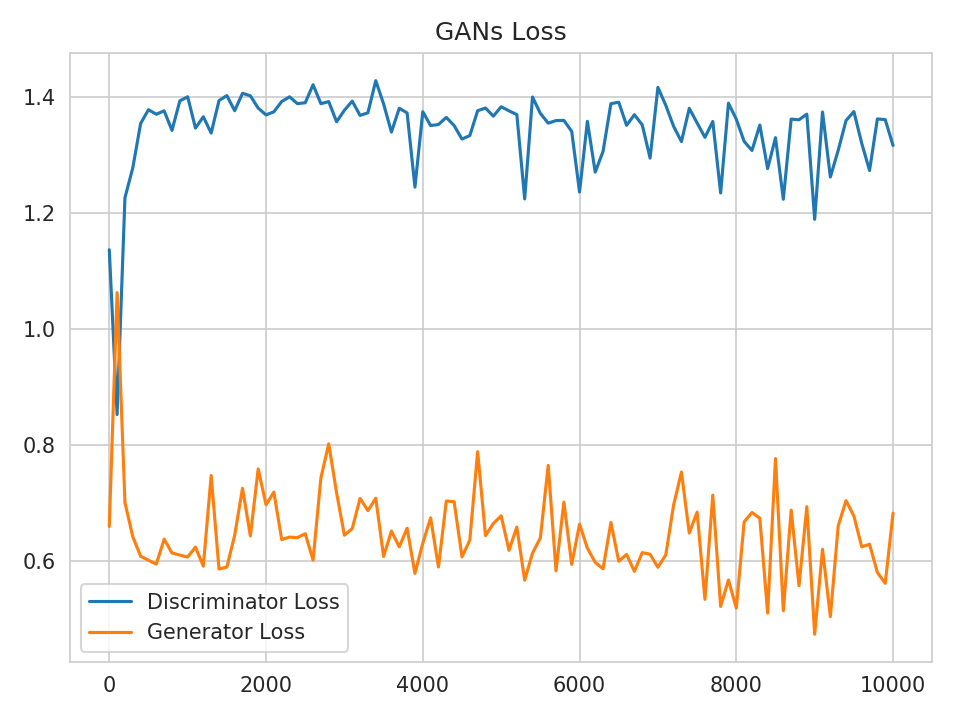
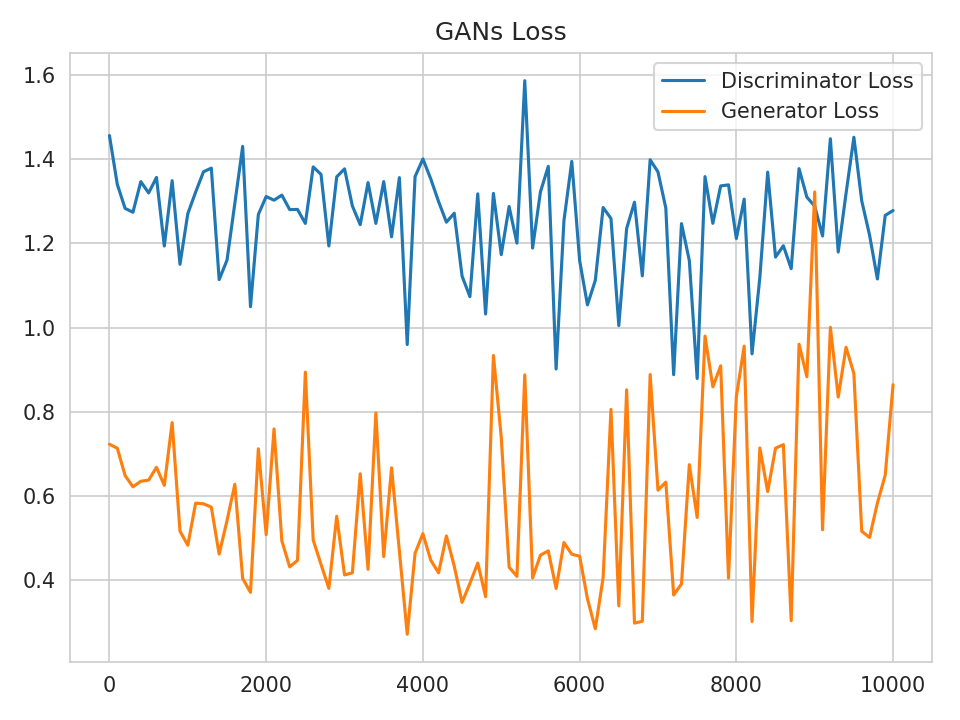
Rewrite a few things

diff --git a/PDFs_Replicas/GANs_Gluon.py b/PDFs_Replicas/GANs_Gluon.py
@@ -1,9 +1,13 @@
 # Import the Libraries
 import lhapdf
+import math
 import tensorflow as tf
 import numpy as np
 import seaborn as sb
+from random import sample
 import matplotlib.pyplot as plt
+from matplotlib.font_manager import FontProperties
+from matplotlib.lines import Line2D
 sb.set_style("whitegrid")
 
 # Get the PDF4LHC15 for test purpose and print some description
@@ -13,16 +17,22 @@ print(pdf.description)
 pdf_central = pdf.mkPDF(0)
 
 # Define the scale 
-Q_pdf = 125
+Q_pdf = 1.5
+
+# Define a log uniform function
+def loguniform(low=0, high=1, size=None):
+    return np.exp(np.random.uniform(low, high, size))
 
 # Define a function which does the sampling
 def sample_pdf(n=1000):
     data  = []
     x_pdf = []
-    for i in np.logspace(-3,-1,n/2):
-        x_pdf.append(i)
-    for i in np.linspace(0.1,1,n/2):
-        x_pdf.append(i)
+    m = math.floor(n/3)
+    # Take m random values between 1e-3 and 1e-1 in logscale
+    for i in loguniform(low=-3,high=-1,size=m): x_pdf.append(i)
+    # Taake (n-m) values between 0.1 and 1 
+    for i in np.random.uniform(0.1,1,n-m): x_pdf.append(i)
+    # Construct the sampling
     for x in x_pdf:
         y_pdf = pdf_central.xfxQ(21,x,Q_pdf)
         data.append([x,y_pdf])
@@ -30,24 +40,34 @@ def sample_pdf(n=1000):
 
 # Define the function which samples the Data
 def sample_noise(m, n):
-    return np.random.uniform(0, 1., size=[m, n])
+    return np.random.uniform(0,1.,size=[m, n])
 
+# Define a function which sort a multi-dimensional list wtr to the 1st row
+def sorting(lst):
+    new_lst = []
+    ordering = lst[0].argsort()
+    for i in range(len(lst)):
+        new_lst.append(lst[i][ordering])
+    return new_lst
+
+# Define the hidden layers 
+hidden = [16,16]
 # Implement the GENERATOR Model
 
 # The following function takes the follwoing as input:
 # A Random Sample Z
 # A list which contains the Structure of the NN (layers)
 # A variable called "reuse"
-def generator(Z, layers_size=[16, 16],reuse=False):
+def generator(input_noise, layers_size=hidden,reuse=False):
     # Create and Share a variable named "Generator"
     # Here "reuse" allows us to share the variable
     with tf.variable_scope("Generator",reuse=reuse):
         # Define the 1st and 2nd layer with "leaky_relu" as an activation fucnction
-        l1 = tf.layers.dense(Z,layers_size[0],activation=tf.nn.leaky_relu)
-        l2 = tf.layers.dense(l1,layers_size[1],activation=tf.nn.leaky_relu)
+        L1 = tf.layers.dense(input_noise,layers_size[0],activation=tf.nn.leaky_relu)
+        L2 = tf.layers.dense(L1,layers_size[1],activation=tf.nn.leaky_relu)
         # Define the output layer with 2 nodes
         # This dimension is correspond to the dimension of the "real dataset"
-        output = tf.layers.dense(l2,2)
+        output = tf.layers.dense(L2,2)
 
     return output
 
@@ -57,18 +77,18 @@ def generator(Z, layers_size=[16, 16],reuse=False):
 # A sample from the "REAL" dataset
 # A list which contains the structure of the first 2 "hidden layer"
 # A variable called "reuse"
-def discriminator(X,layers_size=[16, 16],reuse=False):
+def discriminator(input_true,layers_size=hidden,reuse=False):
     # Create and share a variable named "Discriminator"
     with tf.variable_scope("Discriminator",reuse=reuse):
         # Define the 1st and 2nd layer with "leaky_relu" as an activation fucnction
-        l1 = tf.layers.dense(X,layers_size[0],activation=tf.nn.leaky_relu)
-        l2 = tf.layers.dense(l1,layers_size[1],activation=tf.nn.leaky_relu)
+        L1 = tf.layers.dense(input_true,layers_size[0],activation=tf.nn.leaky_relu)
+        L2 = tf.layers.dense(L1,layers_size[1],activation=tf.nn.leaky_relu)
         # Fix the third layer to 2 nodes so we can visualize the transformed feature space in a 2D plane
-        l3 = tf.layers.dense(l2,2)
+        L3 = tf.layers.dense(L2,2)
         # Define the output layer (logit)
-        output = tf.layers.dense(l3,1)
+        output = tf.layers.dense(L3,1)
 
-    return output, l3
+    return output, L3
 
 # Adversarial Training
 
@@ -87,11 +107,11 @@ DiscriminatorLoss = tf.reduce_mean(tf.nn.sigmoid_cross_entropy_with_logits(logit
                            tf.nn.sigmoid_cross_entropy_with_logits(logits=f_logits,labels=tf.zeros_like(f_logits)))
 GeneratorLoss     = tf.reduce_mean(tf.nn.sigmoid_cross_entropy_with_logits(logits=f_logits,labels=tf.ones_like(f_logits)))
 
-# Train the NN based on the Model defined above
+# Collect the variables in the graph
 GeneratorVars     = tf.get_collection(tf.GraphKeys.GLOBAL_VARIABLES,scope="Generator")
 DiscriminatorVars = tf.get_collection(tf.GraphKeys.GLOBAL_VARIABLES,scope="Discriminator")
 
-# Define the Miniminzer for G&D
+# Define the Optimizer for G&D
 GeneratorStep     = tf.train.RMSPropOptimizer(learning_rate=0.001).minimize(GeneratorLoss,var_list = GeneratorVars)
 DiscriminatorStep = tf.train.RMSPropOptimizer(learning_rate=0.001).minimize(DiscriminatorLoss,var_list = DiscriminatorVars)
 
@@ -103,6 +123,7 @@ batch_size = 256
 nd_steps   = 10
 ng_steps   = 10
 
+# Fetch the real PDF in order to plot them
 x_plot = sample_pdf(n=batch_size)
 
 f = open('loss.csv','w')
@@ -110,33 +131,36 @@ f.write('Iteration,Discriminator Loss,Generator Loss\n')
 
 numb_training = 10001
 
+# Training
 for i in range(numb_training):
     X_batch = sample_pdf(n=batch_size)
     Z_batch = sample_noise(batch_size, 2)
 
+    # Train independently G&D in multiple steps
     for _ in range(nd_steps):
         _, dloss = sess.run([DiscriminatorStep, DiscriminatorLoss], feed_dict={X: X_batch, Z: Z_batch})
-    rrep_dstep, grep_dstep = sess.run([r_rep, g_rep], feed_dict={X: X_batch, Z: Z_batch})
 
     for _ in range(ng_steps):
         _, gloss = sess.run([GeneratorStep, GeneratorLoss], feed_dict={Z: Z_batch})
-
-    rrep_gstep, grep_gstep = sess.run([r_rep, g_rep], feed_dict={X: X_batch, Z: Z_batch})
 
     print ("Iterations: %d\t out of %d\t. Discriminator loss: %.4f\t Generator loss: %.4f"%(i,numb_training-1,dloss,gloss))
     if i%100 == 0:
         f.write("%d,%f,%f\n"%(i,dloss,gloss))
 
+    # Plot each 1000 iteration
     if i%1000 == 0:
-        plt.figure()
+        
+        # Fetch the generated data
         g_plot = sess.run(G_sample, feed_dict={Z: Z_batch})
-        xax = plt.scatter(x_plot[:,0], x_plot[:,1])
+
+        plt.figure()
+        xax = plt.scatter(x_plot[:,0],x_plot[:,1])
         gax = plt.scatter(g_plot[:,0],g_plot[:,1])
 
-        plt.legend((xax,gax), ("Real Data","Generated Data"))
+        plt.legend((xax,gax), ("Real PDF","Generated PDF"))
         plt.title('Samples at Iteration %d'%i)
         plt.tight_layout()
-        plt.savefig('plots/iterations/iteration_%d.png'%i, dpi=250)
+        plt.savefig('iterations/iteration_%d.png'%i, dpi=250)
         plt.close()
 
 f.close()

diff --git a/PDFs_Replicas/animation.py b/PDFs_Replicas/animation.py
@@ -1,10 +1,13 @@
 from PIL import Image
 import numpy as np
 import imageio
+import os
 
 ipath = "iterations/iteration_%d.png"
 
 images = []
-for i in range(11):
+nb_images = len(next(os.walk('iterations'))[2])
+
+for i in range(nb_images):
     images.append(imageio.imread(ipath%(i*1000)))
-imageio.mimsave('iterations.gif', images, fps=1)
+imageio.mimsave('animation/animation.gif', images, fps=1)
